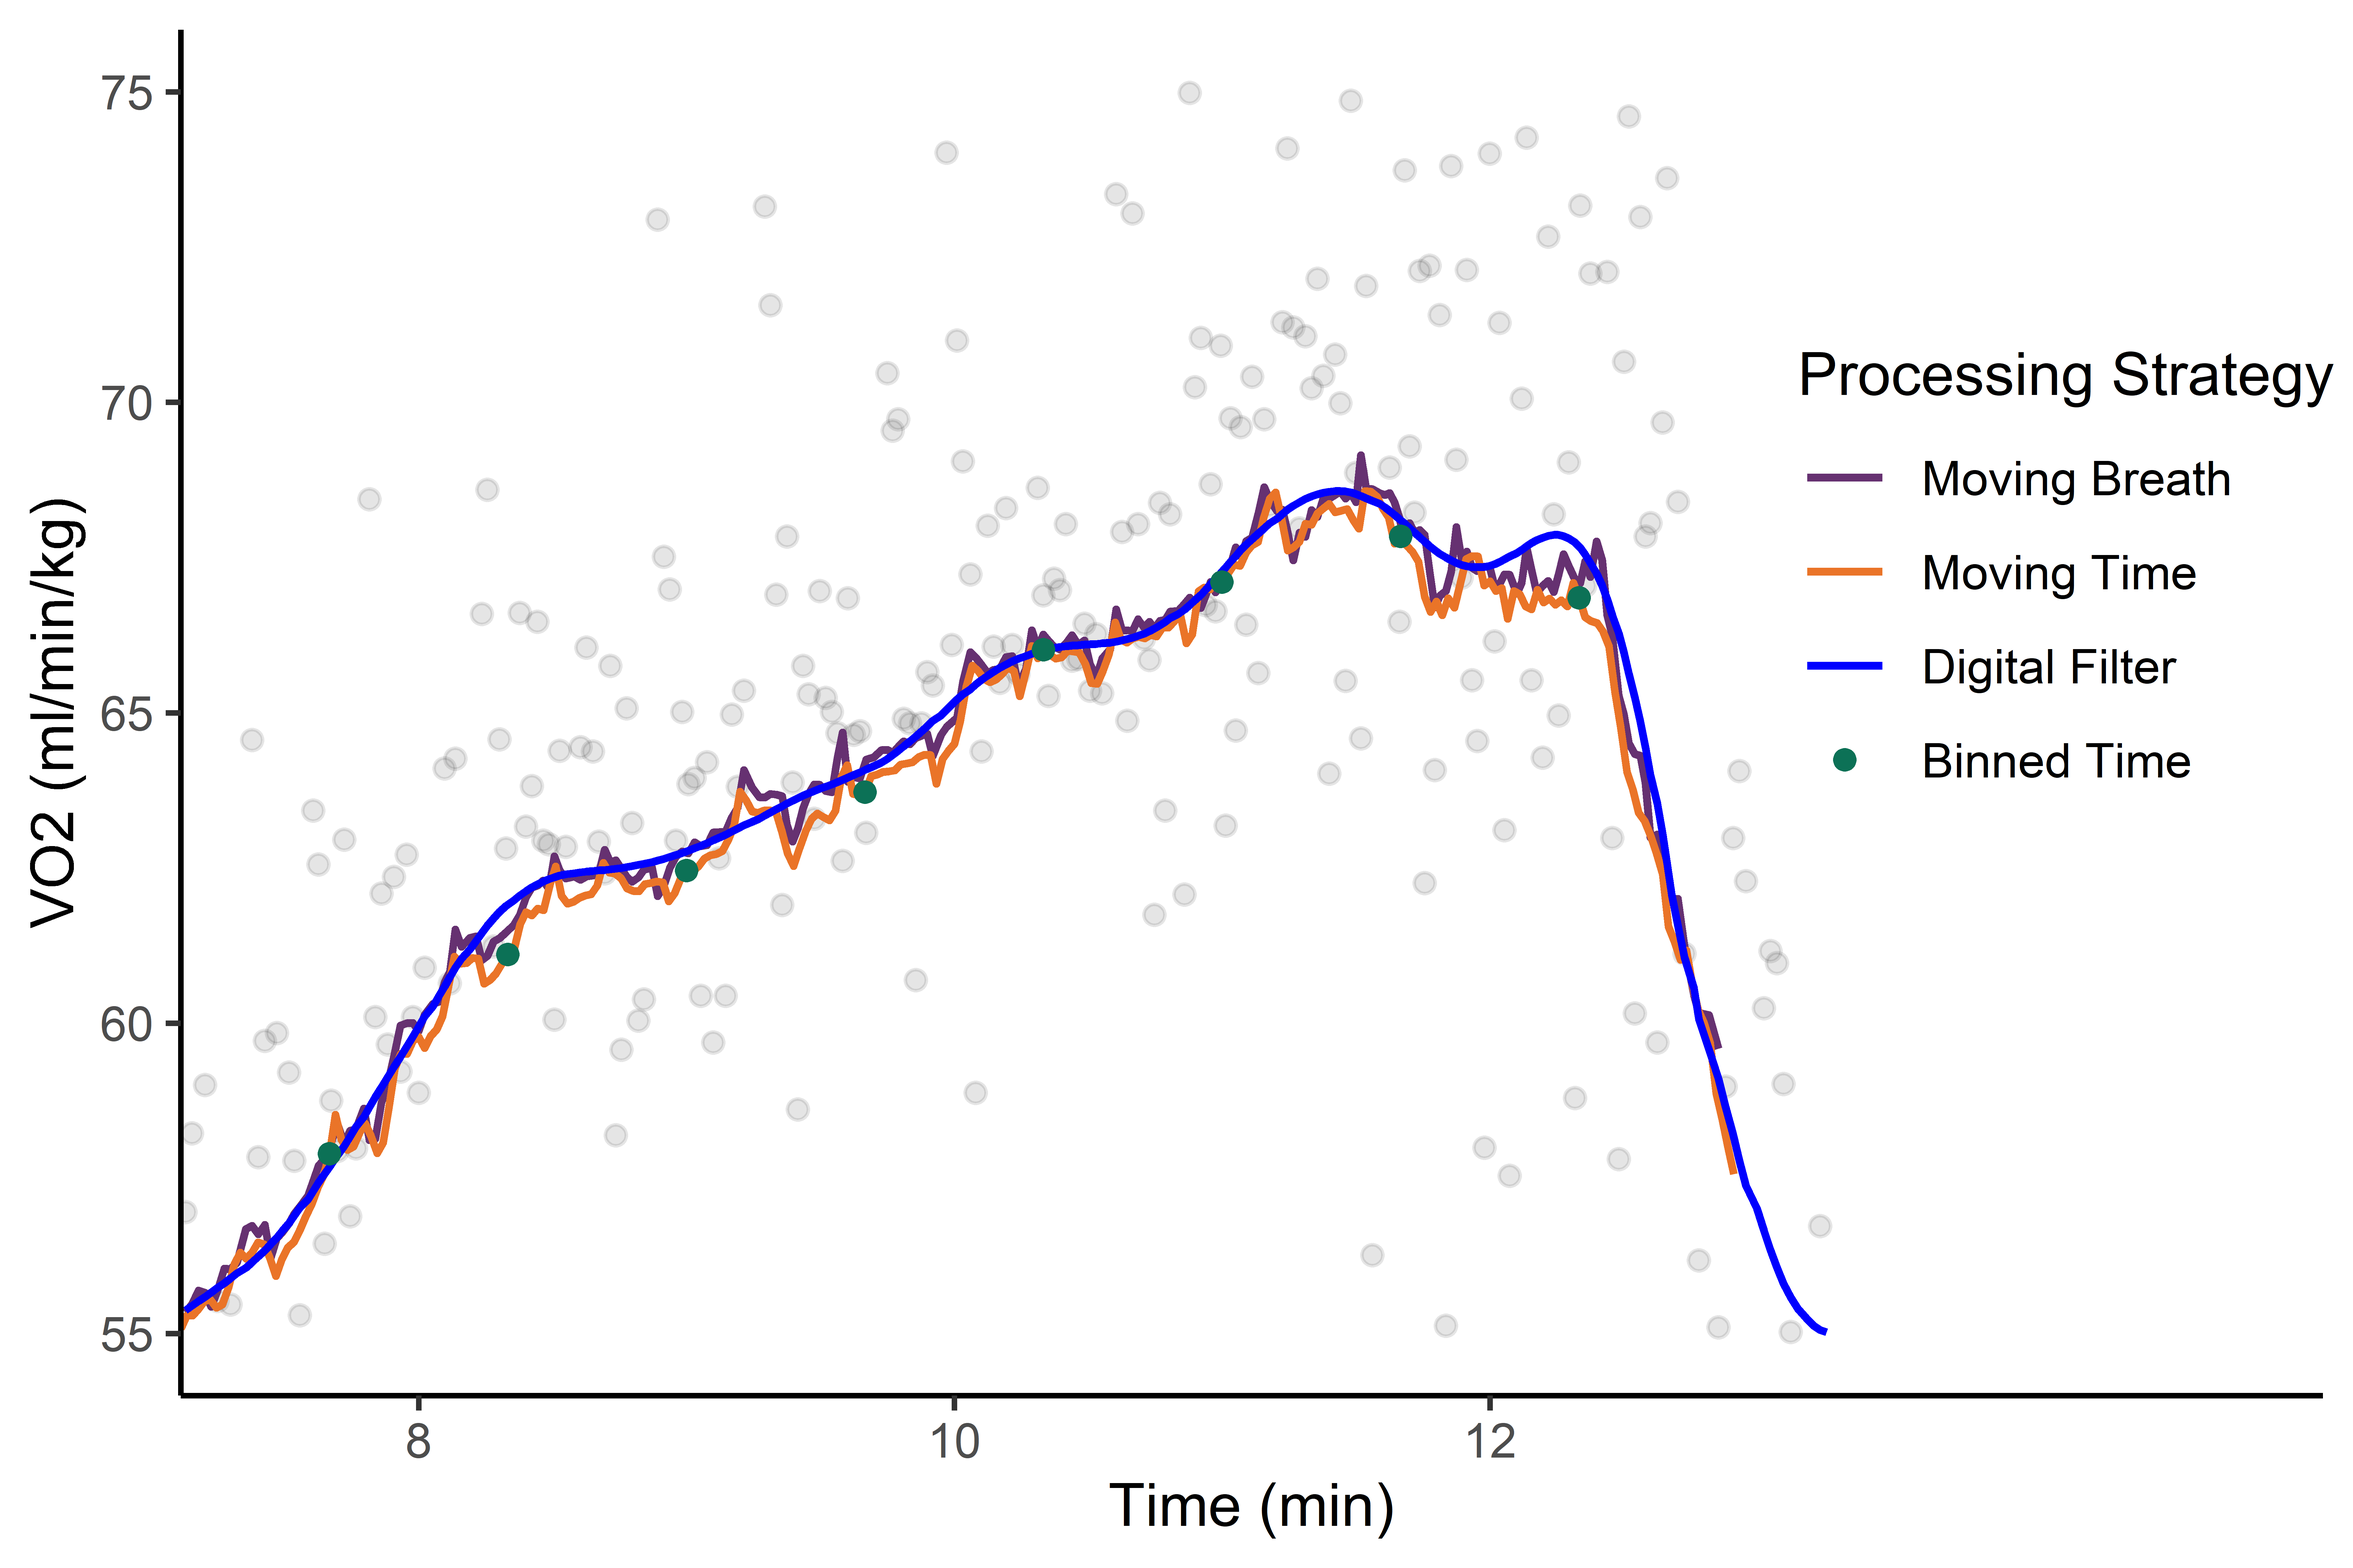
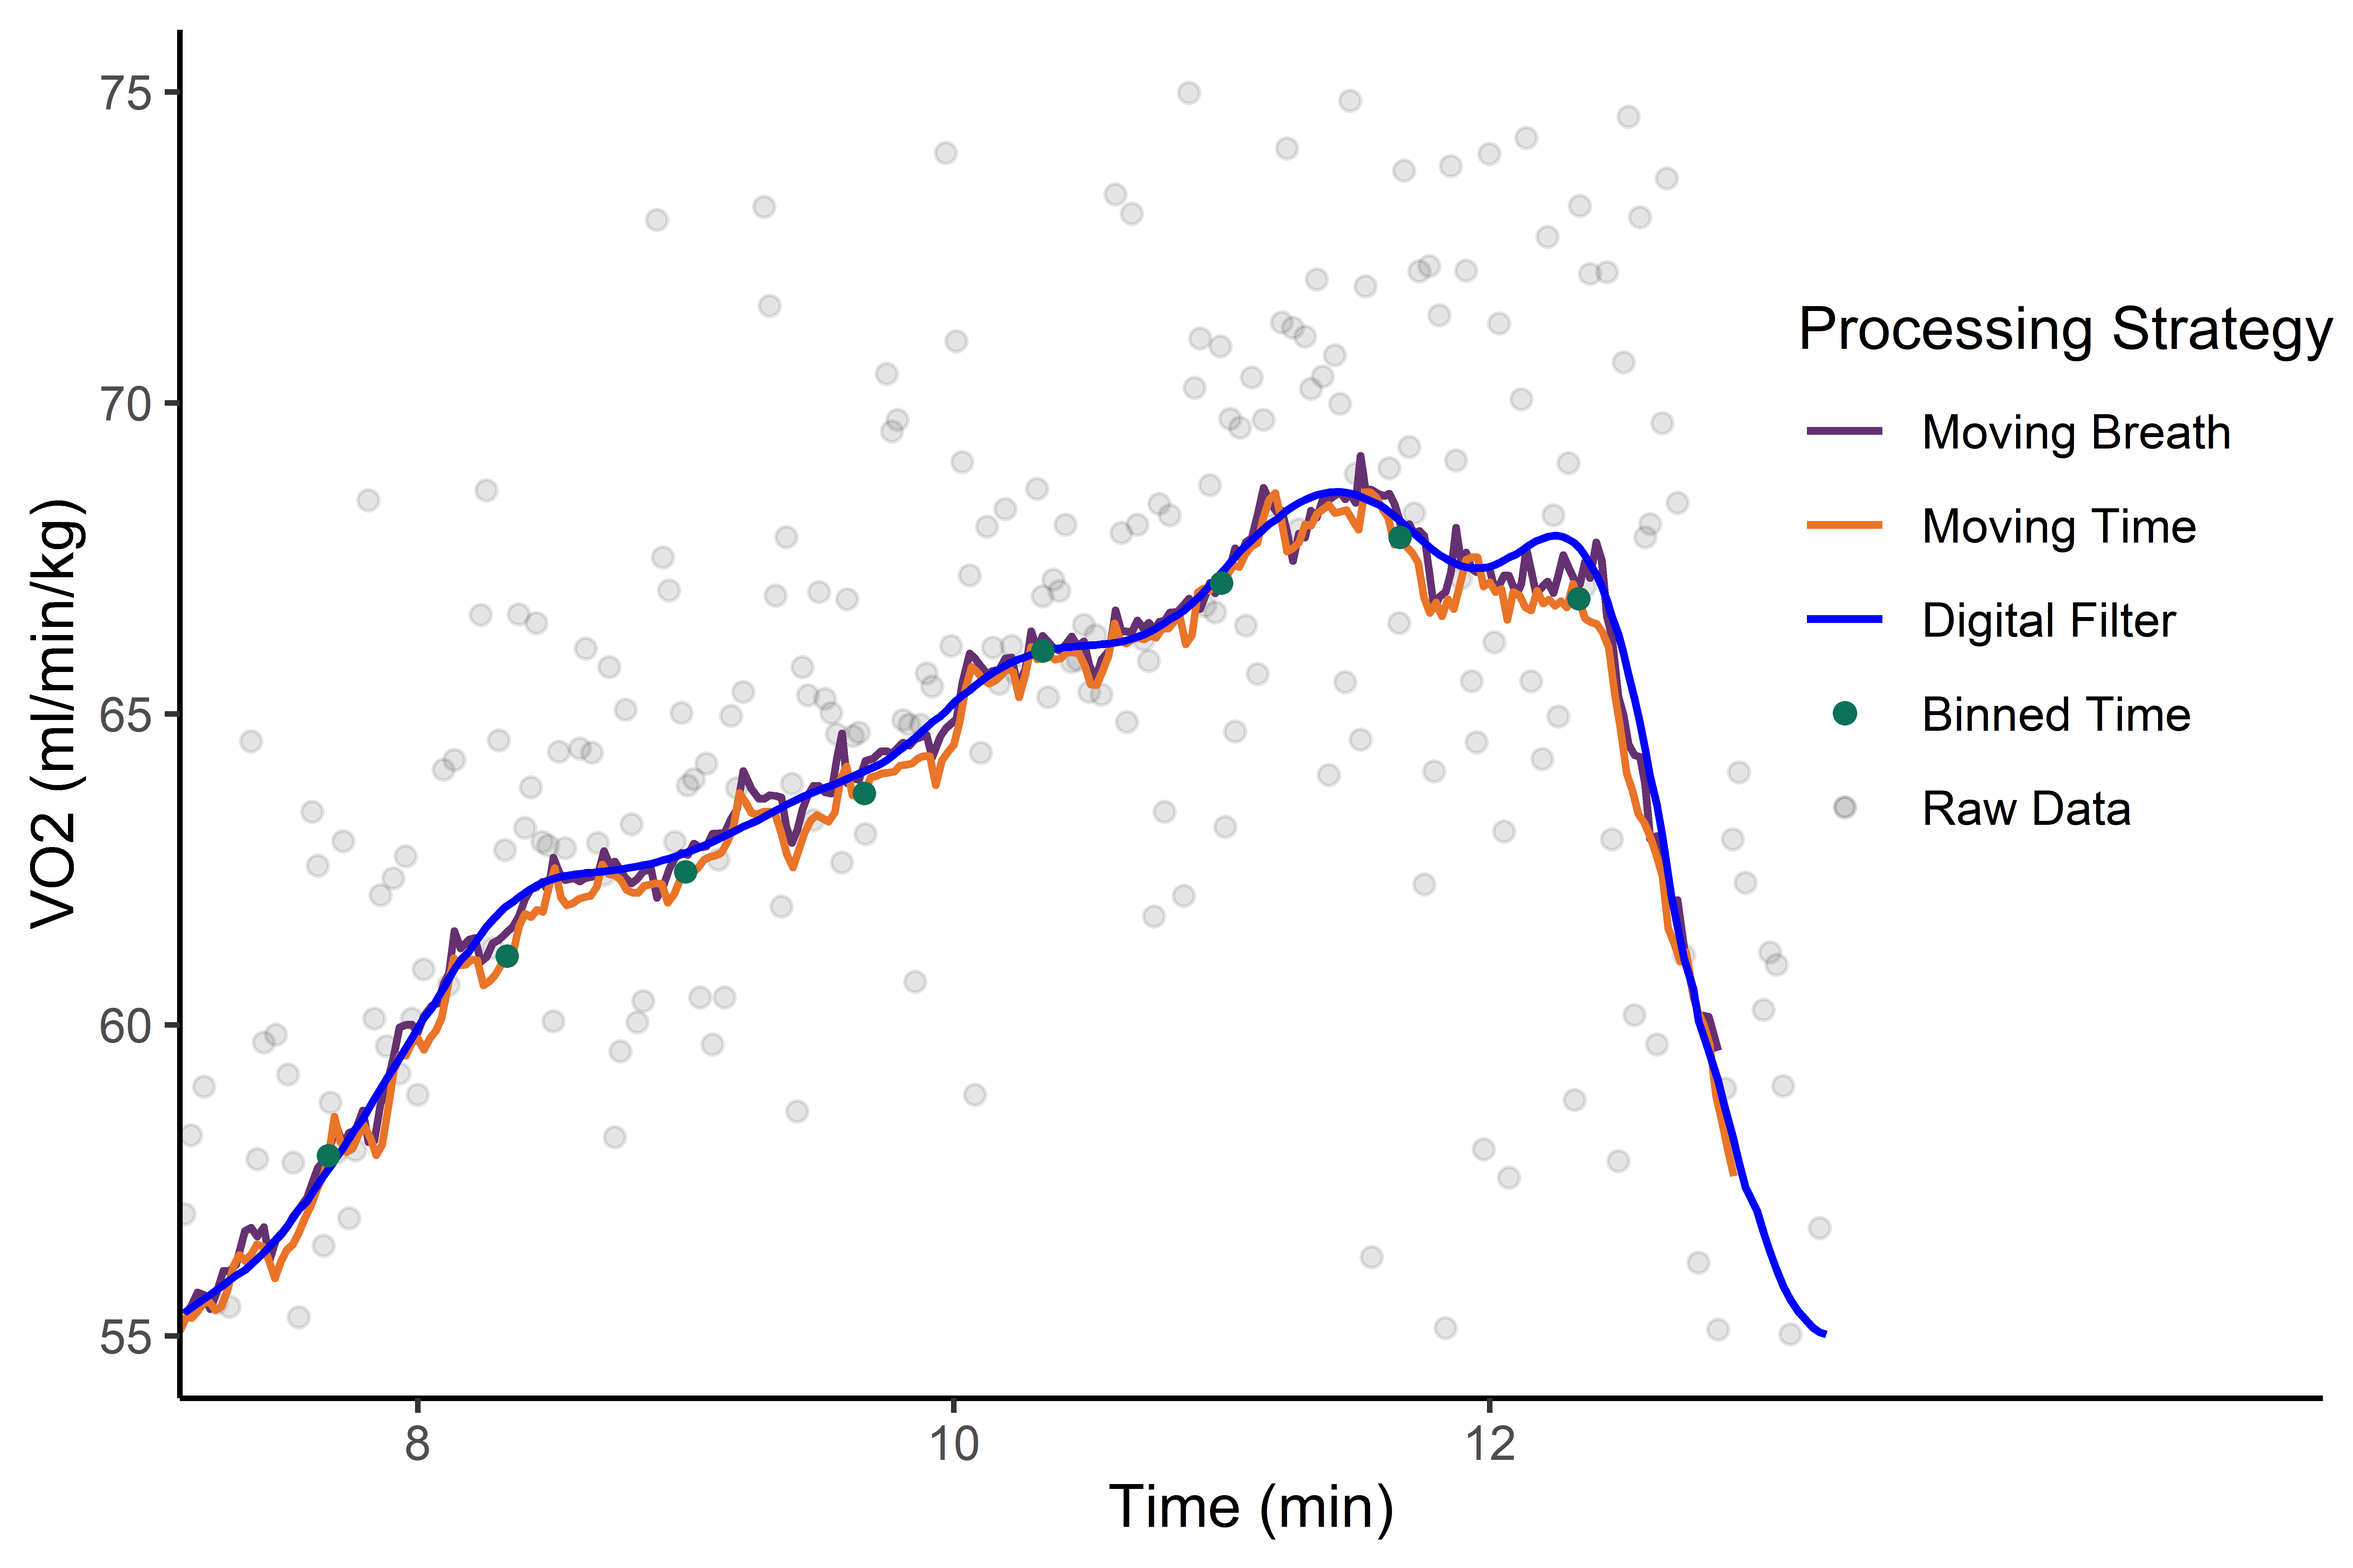
Change legend in example plot

diff --git a/scripts/comparison.md b/scripts/comparison.md
@@ -301,9 +301,20 @@ exm_tidy$method <- factor(
 exm_tidy$value <- exm_tidy$value / bodymass
 
 p_ex <- ggplot(exm_tidy, aes(x = time)) +
-  geom_point(data = exm_tidy[exm_tidy$method == "raw", ], aes(y = value), alpha = 0.1) +
-  geom_line(data = exm_tidy[exm_tidy$method %in% c("Moving Breath", "Moving Time", "Digital Filter"), ], aes(y = value, color = method), size = 0.7) +
-  geom_point(data = exm_tidy[exm_tidy$method == "Binned Time", ], aes(y = value, fill = method, colour = "Binned Time"), size = 1.4) +
+  geom_point(
+    data = exm_tidy[exm_tidy$method == "raw", ], 
+    aes(y = value, alpha = method, colour = "Raw Data")
+  ) +
+  geom_line(
+    data = exm_tidy[exm_tidy$method %in% c("Moving Breath", "Moving Time", "Digital Filter"), ], 
+    aes(y = value, color = method), 
+    size = 0.7
+  ) +
+  geom_point(
+    data = exm_tidy[exm_tidy$method == "Binned Time", ], 
+    aes(y = value, fill = method, colour = "Binned Time"), 
+    size = 1.4
+  ) +
   scale_x_continuous(
     name = "Time (min)",
     limits = c(500,860),
@@ -317,24 +328,28 @@ p_ex <- ggplot(exm_tidy, aes(x = time)) +
   ) +
   scale_color_manual(
     name = "Processing Strategy",
-    values = c(met.brewer("Java", 3)[3], "blue", met.brewer("Java", 3)[c(1,2)]),
-    labels = c("Binned Time", "Digital Filter","Moving Time","Moving Breath"),
+    values = c(met.brewer("Java", 3)[3], "blue", met.brewer("Java", 3)[c(1,2)], "black"),
+    labels = c("Raw Data", "Binned Time", "Digital Filter","Moving Time","Moving Breath"),
     guide = guide_legend(
       reverse = TRUE,
       override.aes = list(
-        linetype = c(rep.int("solid", 3), "blank"),
-        shape = c(rep.int(NA, 3), 19),
-        color = c(met.brewer("Java", 3)[c(1,2)], "blue", met.brewer("Java", 3)[3])
+        linetype = c(rep.int("solid", 3), "blank", "blank"),
+        shape = c(rep.int(NA, 3), 19, 19),
+        color = c(met.brewer("Java", 3)[c(1,2)], "blue", met.brewer("Java", 3)[3], "black"),
+        alpha = c(rep.int(1, 4), 0.1)
       )
     )
   ) +
-   scale_fill_manual(
+  scale_fill_manual(
     values = "white",
+    guide = "none"
+  ) +  scale_alpha_manual(
+    values = 0.1,
     guide = "none"
   ) +
   theme_classic() +
   theme(
-    legend.position = c(0.88, 0.6),
+    legend.position = c(0.88, 0.63),
   )
 
 # ggsave(filename = "../plots/example.png", plot = p_ex, width = 6, height = 4, dpi = 1200, bg = "white")
